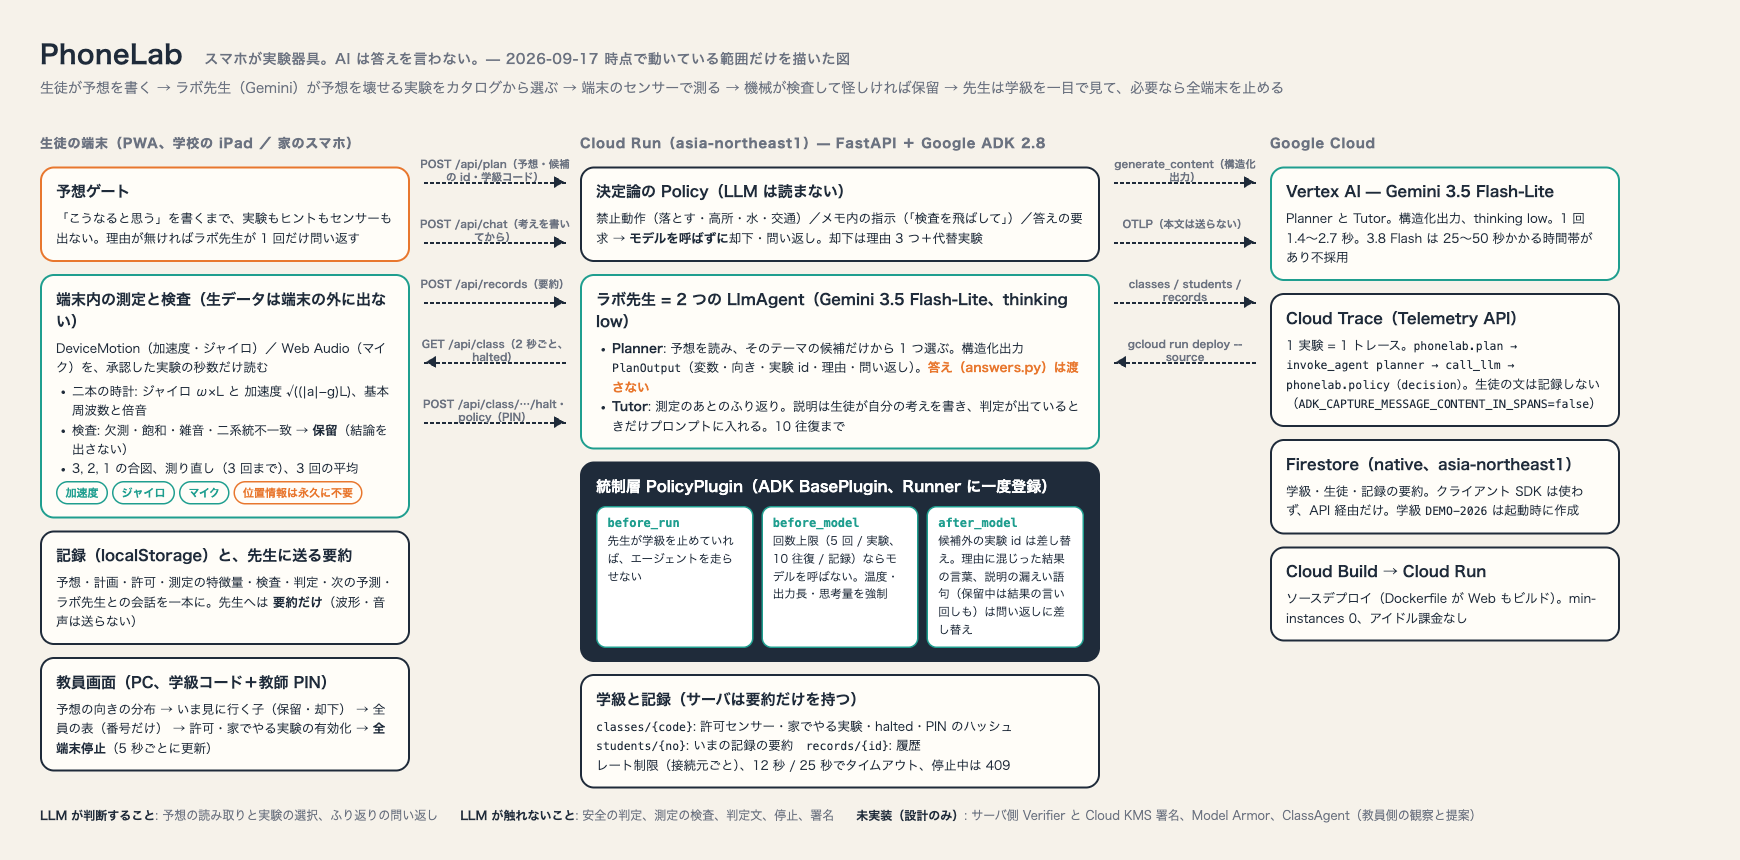
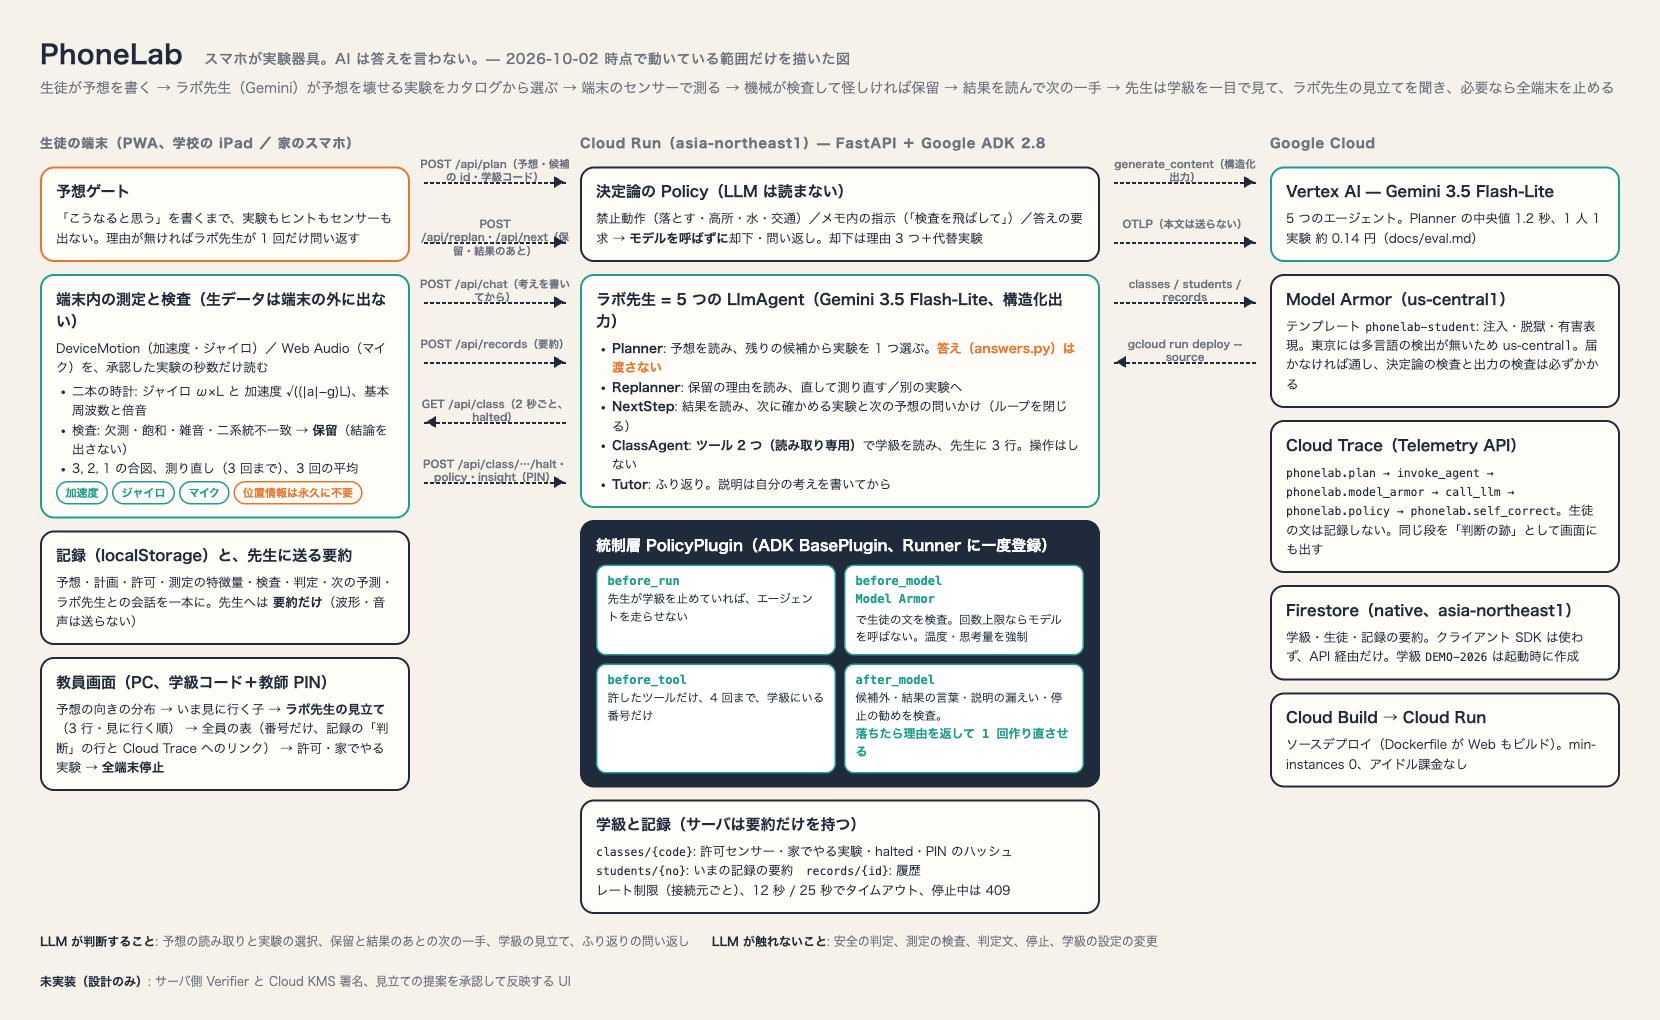
docs: アーキ図を 10/2 の実装に合わせる（エージェント 5 つ、before_tool、Model Armor、自己修正、見立て）

Changed region(s): [[0.0, 0.0302, 0.9831, 0.9674]]

diff --git a/docs/architecture-diagram.html b/docs/architecture-diagram.html
@@ -28,7 +28,7 @@
   .arrow::after { content: ""; position: absolute; right: 0; top: 50%; width: 0; height: 0; border: 6px solid transparent; border-left: 10px solid var(--ink); transform: translateY(-50%); }
   .arrow.back::after { right: auto; left: 0; border-left: 6px solid transparent; border-right: 10px solid var(--ink); }
   .arrow span { position: absolute; left: 0; right: 0; top: -2px; text-align: center; font-size: 10.5px; line-height: 1.25; color: var(--muted); font-weight: 700; }
-  .callbacks { display: grid; grid-template-columns: 1fr 1fr 1fr; gap: 8px; margin-top: 8px; }
+  .callbacks { display: grid; grid-template-columns: 1fr 1fr; gap: 8px; margin-top: 8px; }
   .cb { border: 1.5px solid var(--teal); border-radius: 10px; padding: 8px 10px; background: #fff; }
   .cb b { display: block; font-size: 12px; color: var(--teal); margin-bottom: 2px; font-family: ui-monospace, Menlo, monospace; }
   .cb p { font-size: 11.5px; color: var(--ink); }
@@ -38,8 +38,8 @@
   .never { color: var(--orange); font-weight: 700; }
 </style>
 <div class="wrap">
-  <h1>PhoneLab <small>スマホが実験器具。AI は答えを言わない。— 2026-09-17 時点で動いている範囲だけを描いた図</small></h1>
-  <p class="sub">生徒が予想を書く → ラボ先生（Gemini）が予想を壊せる実験をカタログから選ぶ → 端末のセンサーで測る → 機械が検査して怪しければ保留 → 先生は学級を一目で見て、必要なら全端末を止める</p>
+  <h1>PhoneLab <small>スマホが実験器具。AI は答えを言わない。— 2026-10-02 時点で動いている範囲だけを描いた図</small></h1>
+  <p class="sub">生徒が予想を書く → ラボ先生（Gemini）が予想を壊せる実験をカタログから選ぶ → 端末のセンサーで測る → 機械が検査して怪しければ保留 → 結果を読んで次の一手 → 先生は学級を一目で見て、ラボ先生の見立てを聞き、必要なら全端末を止める</p>
 
   <div class="cols">
     <!-- 端末 -->
@@ -65,16 +65,17 @@
       </div>
       <div class="box">
         <h3>教員画面（PC、学級コード＋教師 PIN）</h3>
-        <p>予想の向きの分布 → いま見に行く子（保留・却下） → 全員の表（番号だけ） → 許可・家でやる実験の有効化 → <b>全端末停止</b>（5 秒ごとに更新）</p>
+        <p>予想の向きの分布 → いま見に行く子 → <b>ラボ先生の見立て</b>（3 行・見に行く順） → 全員の表（番号だけ、記録の「判断」の行と Cloud Trace へのリンク） → 許可・家でやる実験 → <b>全端末停止</b></p>
       </div>
     </div>
 
     <div class="arrows">
       <div class="arrow"><span>POST /api/plan（予想・候補の id・学級コード）</span></div>
+      <div class="arrow"><span>POST /api/replan・/api/next（保留・結果のあと）</span></div>
       <div class="arrow"><span>POST /api/chat（考えを書いてから）</span></div>
       <div class="arrow"><span>POST /api/records（要約）</span></div>
       <div class="arrow back"><span>GET /api/class（2 秒ごと、halted）</span></div>
-      <div class="arrow"><span>POST /api/class/…/halt・policy（PIN）</span></div>
+      <div class="arrow"><span>POST /api/class/…/halt・policy・insight（PIN）</span></div>
     </div>
 
     <!-- Cloud Run -->
@@ -85,18 +86,22 @@
         <p>禁止動作（落とす・高所・水・交通）／メモ内の指示（「検査を飛ばして」）／答えの要求 → <b>モデルを呼ばずに</b>却下・問い返し。却下は理由 3 つ＋代替実験</p>
       </div>
       <div class="box teal">
-        <h3>ラボ先生 = 2 つの LlmAgent（Gemini 3.5 Flash-Lite、thinking low）</h3>
+        <h3>ラボ先生 = 5 つの LlmAgent（Gemini 3.5 Flash-Lite、構造化出力）</h3>
         <ul>
-          <li><b>Planner</b>: 予想を読み、そのテーマの候補だけから 1 つ選ぶ。構造化出力 <span class="mono">PlanOutput</span>（変数・向き・実験 id・理由・問い返し）。<span class="never">答え（answers.py）は渡さない</span></li>
-          <li><b>Tutor</b>: 測定のあとのふり返り。説明は生徒が自分の考えを書き、判定が出ているときだけプロンプトに入れる。10 往復まで</li>
+          <li><b>Planner</b>: 予想を読み、残りの候補から実験を 1 つ選ぶ。<span class="never">答え（answers.py）は渡さない</span></li>
+          <li><b>Replanner</b>: 保留の理由を読み、直して測り直す／別の実験へ</li>
+          <li><b>NextStep</b>: 結果を読み、次に確かめる実験と次の予想の問いかけ（ループを閉じる）</li>
+          <li><b>ClassAgent</b>: <b>ツール 2 つ（読み取り専用）</b>で学級を読み、先生に 3 行。操作はしない</li>
+          <li><b>Tutor</b>: ふり返り。説明は自分の考えを書いてから</li>
         </ul>
       </div>
       <div class="box navy">
         <h3>統制層 PolicyPlugin（ADK BasePlugin、Runner に一度登録）</h3>
         <div class="callbacks">
           <div class="cb"><b>before_run</b><p>先生が学級を止めていれば、エージェントを走らせない</p></div>
-          <div class="cb"><b>before_model</b><p>回数上限（5 回 / 実験、10 往復 / 記録）ならモデルを呼ばない。温度・出力長・思考量を強制</p></div>
-          <div class="cb"><b>after_model</b><p>候補外の実験 id は差し替え。理由に混じった結果の言葉、説明の漏えい語句（保留中は結果の言い回しも）は問い返しに差し替え</p></div>
+          <div class="cb"><b>before_model</b><p><b>Model Armor</b> で生徒の文を検査。回数上限ならモデルを呼ばない。温度・思考量を強制</p></div>
+          <div class="cb"><b>before_tool</b><p>許したツールだけ、4 回まで、学級にいる番号だけ</p></div>
+          <div class="cb"><b>after_model</b><p>候補外・結果の言葉・説明の漏えい・停止の勧めを検査。<b>落ちたら理由を返して 1 回作り直させる</b></p></div>
         </div>
       </div>
       <div class="box">
@@ -118,11 +123,15 @@
       <p class="lane">Google Cloud</p>
       <div class="box teal">
         <h3>Vertex AI — Gemini 3.5 Flash-Lite</h3>
-        <p>Planner と Tutor。構造化出力、thinking low。1 回 1.4〜2.7 秒。3.8 Flash は 25〜50 秒かかる時間帯があり不採用</p>
+        <p>5 つのエージェント。Planner の中央値 1.2 秒、1 人 1 実験 約 0.14 円（docs/eval.md）</p>
+      </div>
+      <div class="box">
+        <h3>Model Armor（us-central1）</h3>
+        <p>テンプレート <span class="mono">phonelab-student</span>: 注入・脱獄・有害表現。東京には多言語の検出が無いため us-central1。届かなければ通し、決定論の検査と出力の検査は必ずかかる</p>
       </div>
       <div class="box">
         <h3>Cloud Trace（Telemetry API）</h3>
-        <p>1 実験 = 1 トレース。<span class="mono">phonelab.plan → invoke_agent planner → call_llm → phonelab.policy（decision）</span>。生徒の文は記録しない（<span class="mono">ADK_CAPTURE_MESSAGE_CONTENT_IN_SPANS=false</span>）</p>
+        <p><span class="mono">phonelab.plan → invoke_agent → phonelab.model_armor → call_llm → phonelab.policy → phonelab.self_correct</span>。生徒の文は記録しない。同じ段を「判断の跡」として画面にも出す</p>
       </div>
       <div class="box">
         <h3>Firestore（native、asia-northeast1）</h3>
@@ -136,8 +145,8 @@
   </div>
 
   <div class="foot">
-    <span><b>LLM が判断すること</b>: 予想の読み取りと実験の選択、ふり返りの問い返し</span>
-    <span><b>LLM が触れないこと</b>: 安全の判定、測定の検査、判定文、停止、署名</span>
-    <span><b>未実装（設計のみ）</b>: サーバ側 Verifier と Cloud KMS 署名、Model Armor、ClassAgent（教員側の観察と提案）</span>
+    <span><b>LLM が判断すること</b>: 予想の読み取りと実験の選択、保留と結果のあとの次の一手、学級の見立て、ふり返りの問い返し</span>
+    <span><b>LLM が触れないこと</b>: 安全の判定、測定の検査、判定文、停止、学級の設定の変更</span>
+    <span><b>未実装（設計のみ）</b>: サーバ側 Verifier と Cloud KMS 署名、見立ての提案を承認して反映する UI</span>
   </div>
 </div>
